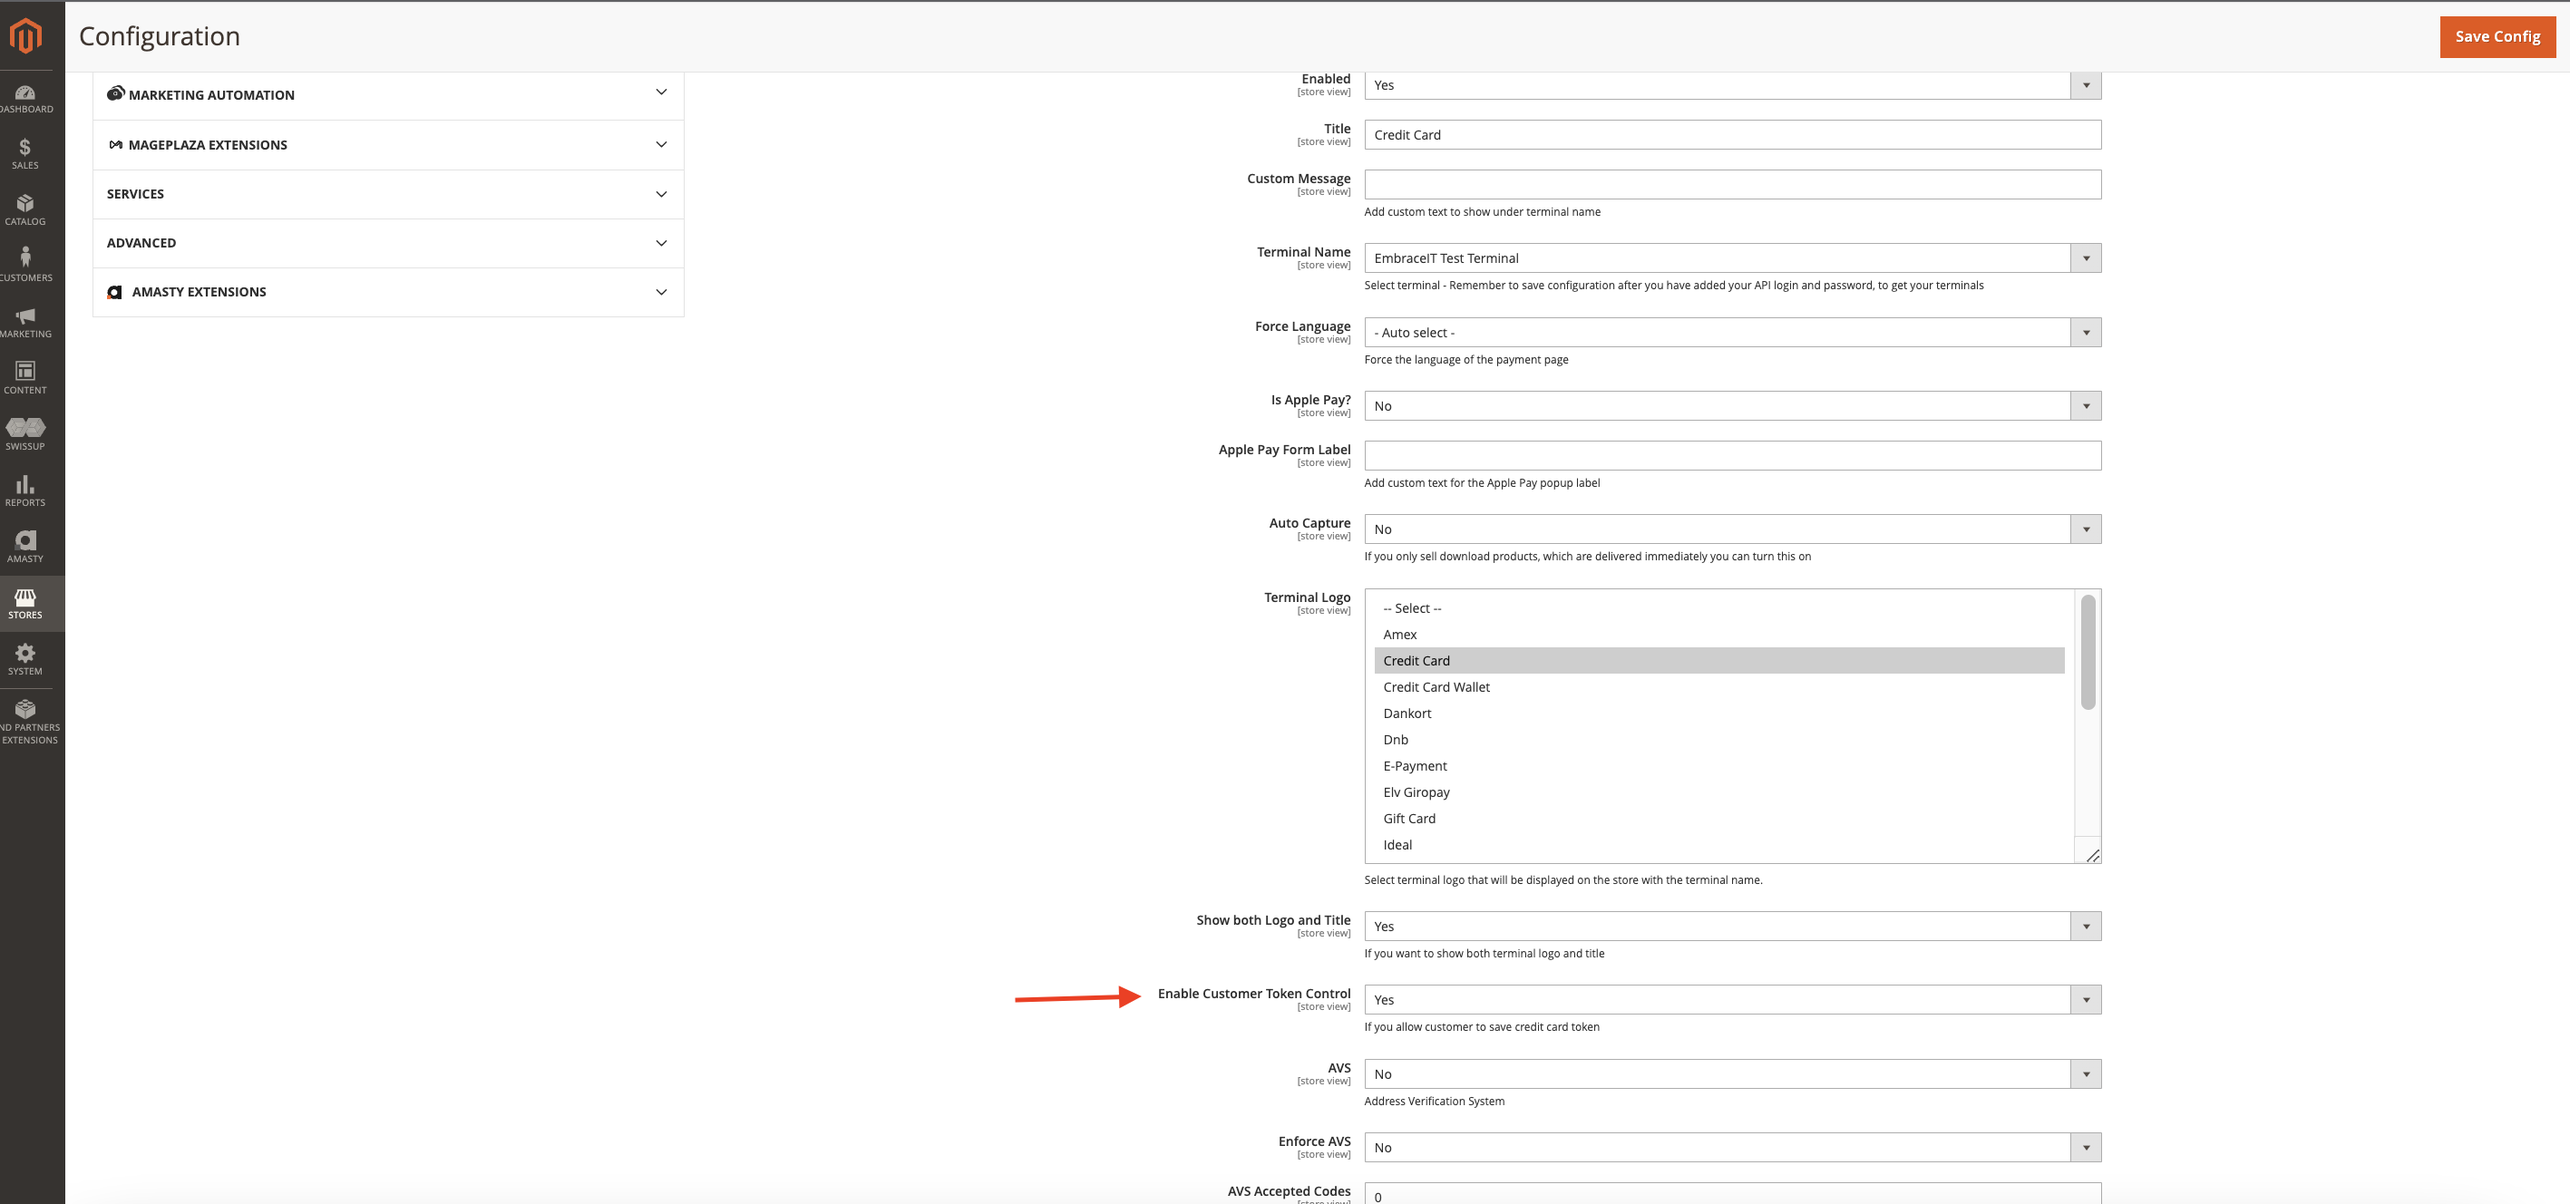
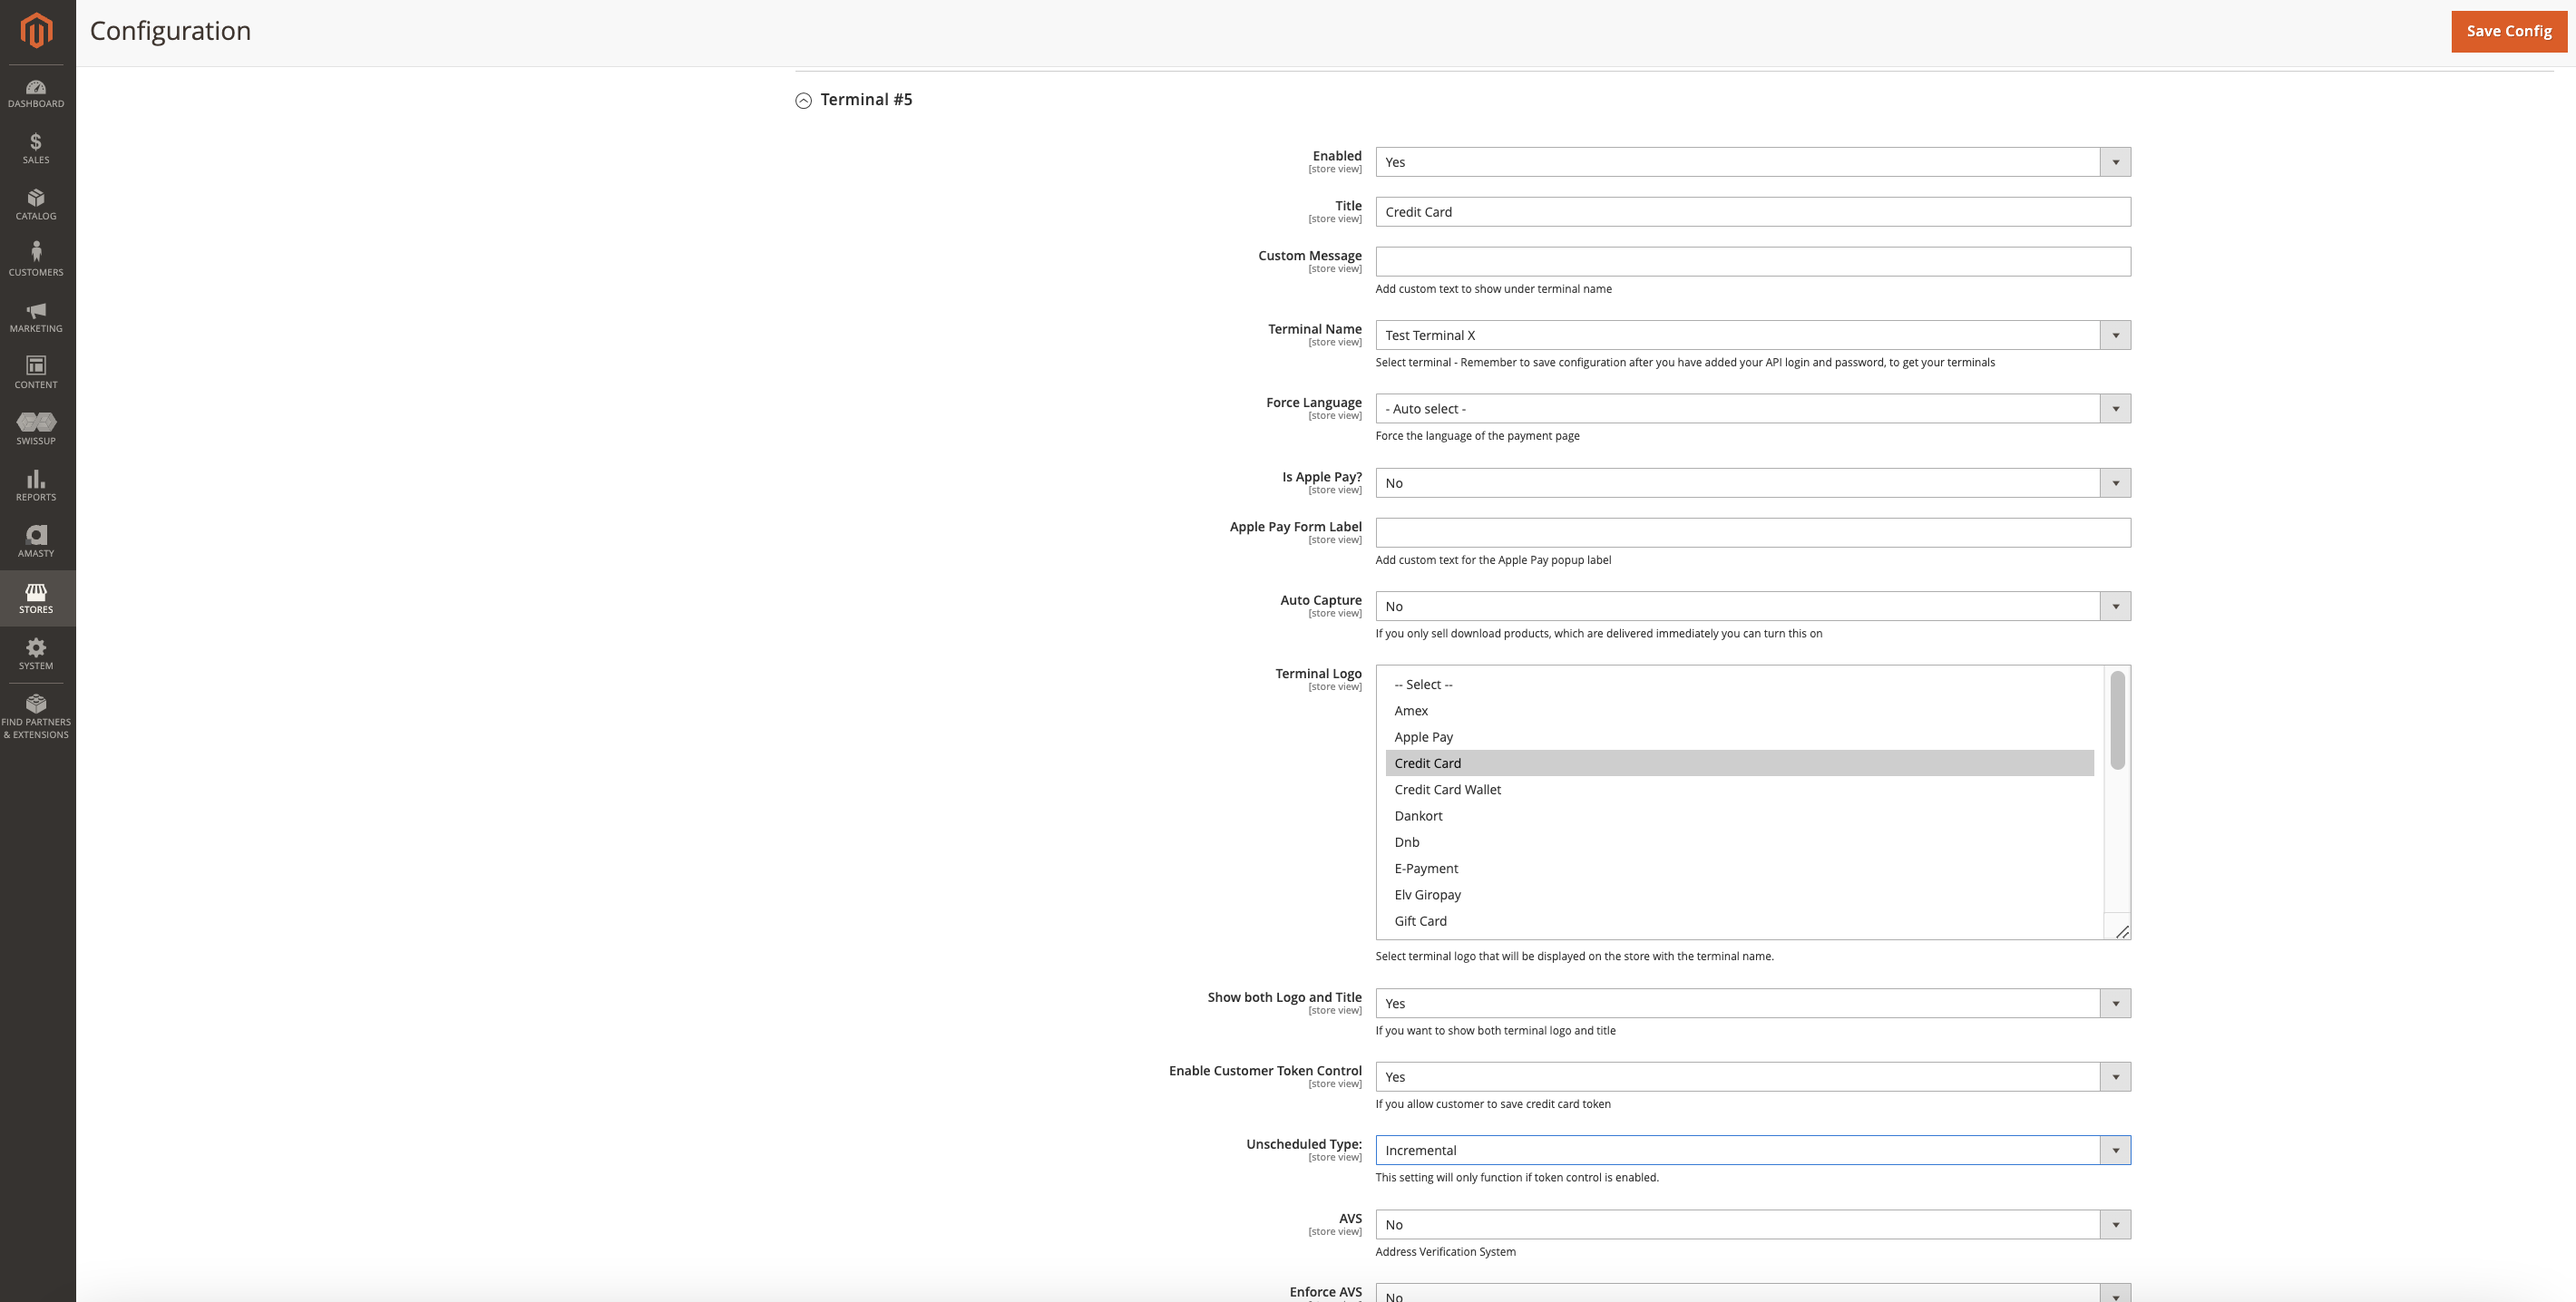
Update wiki with the new screenshots

diff --git a/wiki.md b/wiki.md
@@ -185,13 +185,14 @@ To synchronize the terminals with the gateway, click on the **Synchronize Termin
 
 _**Note:** Remember to follow Magento's [Cache Management](https://docs.magento.com/user-guide/system/cache-management.html) guidelines to clear the site cache when updating the configurations._
 
-#Save credit cards
+# Save credit cards
 1. To enable save credit cards option for customers follow the bellow steps
     * Navigate to Admin \> Stores \> Configuration \> Sales \> Payment Methods > AltaPay
     * Choose Terminal
-    * "Enable Customer Token Control" to Yes 
+    * "Enable Customer Token Control" to Yes
+    * Choose Unscheduled Type from the list.
 
-    ![save_card_config](docs/save_card_config.png)
+        ![save_card_config](docs/save_card_config.png)
 
 2. A new field will be appeared on checkout page for saving the credit card for later use
 
